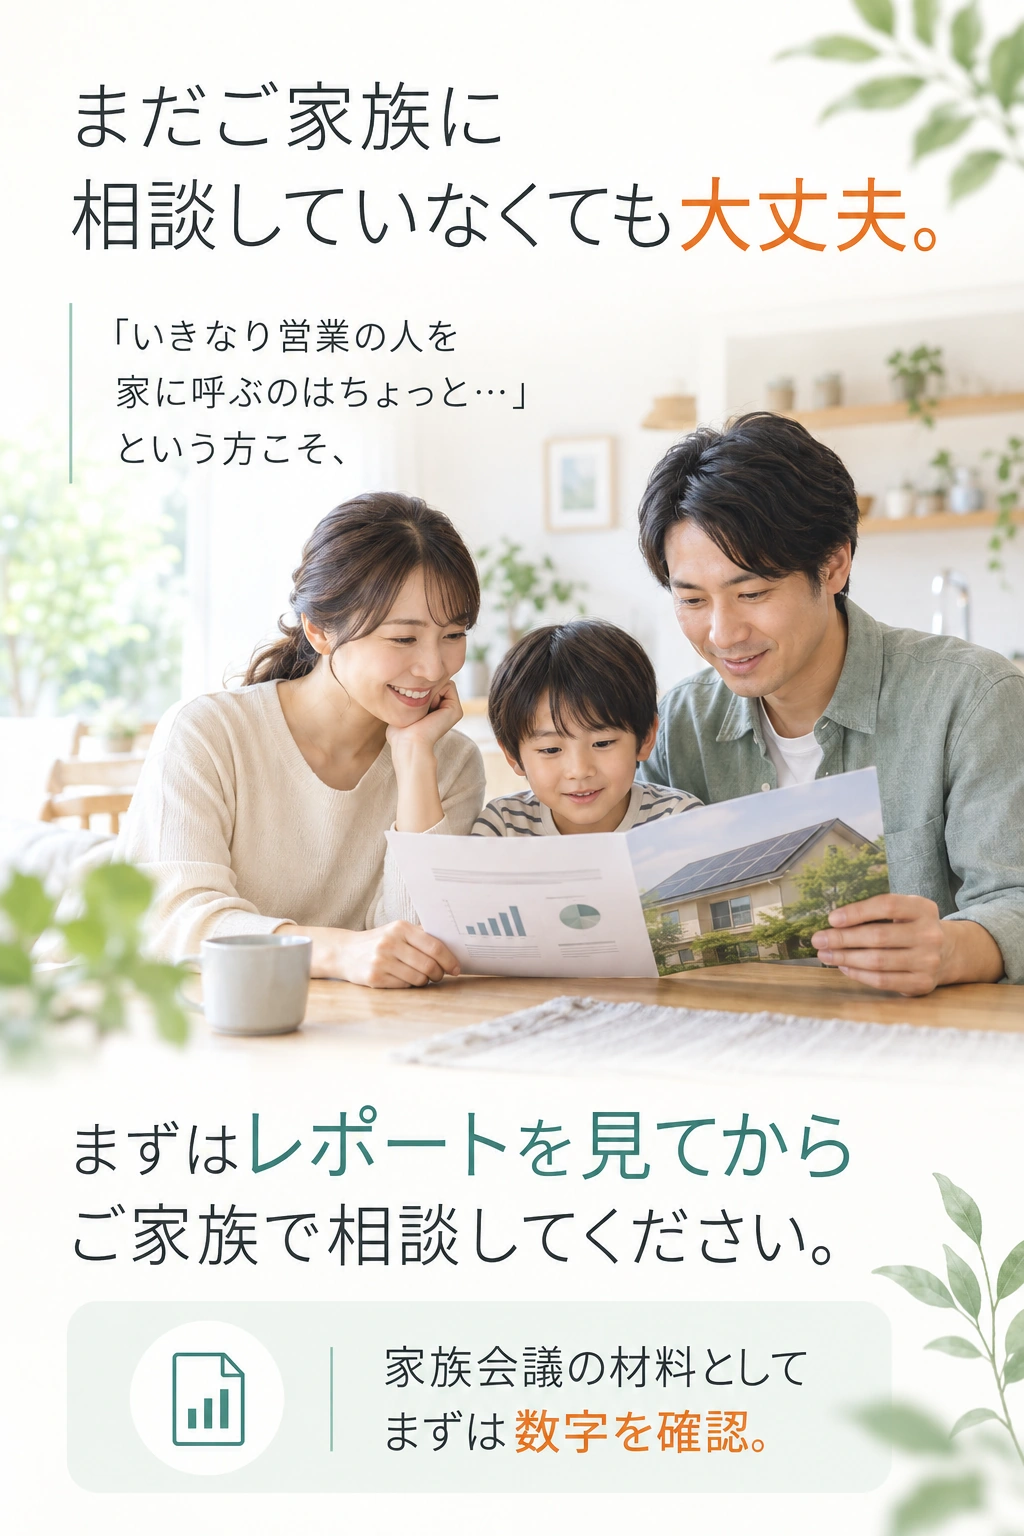
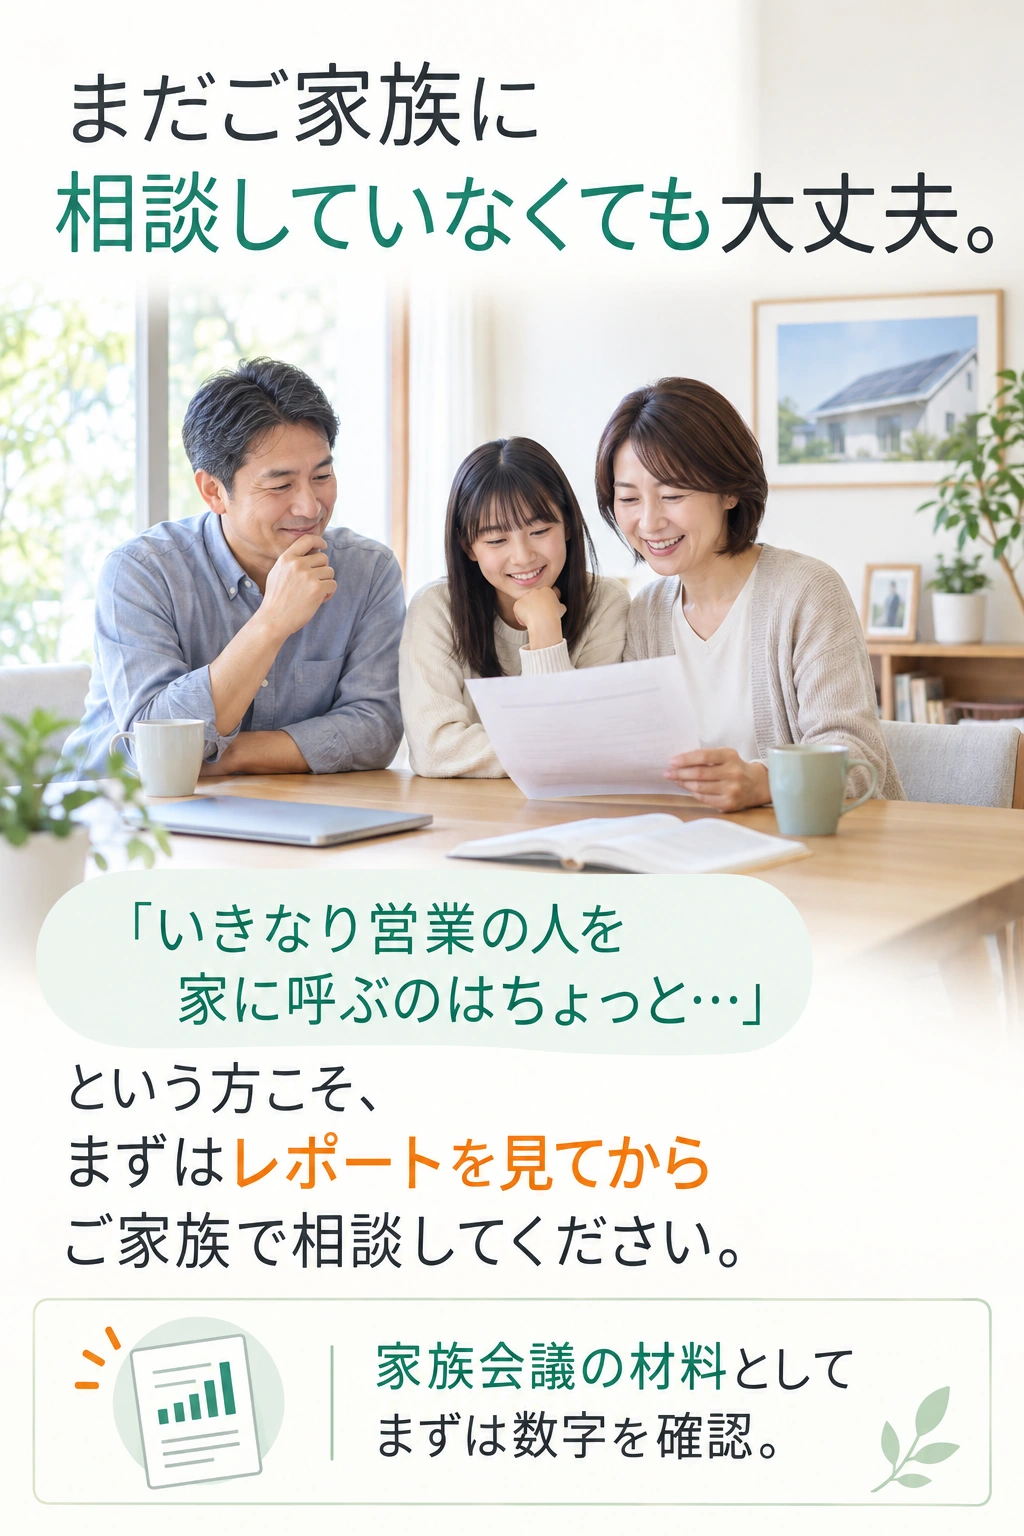
Improve ECODA draftB mobile text readability

diff --git a/projects/20260928_ecoda/draftB/index.html b/projects/20260928_ecoda/draftB/index.html
@@ -2,7 +2,7 @@
 
 <html lang="ja"><head><meta charset="utf-8"/><meta content="width=device-width,initial-scale=1" name="viewport"/><title>東京の戸建て向け｜AI補助金レポートのご案内</title><meta content="太陽光・蓄電池の補助金を知りたい東京都の戸建てにお住まいの方へ。家族で考えるための無料レポートをご紹介します。" name="description"/><meta content="noindex,nofollow,noarchive" name="robots"/><link href="styles.css?v=flow-arrows-r2" rel="stylesheet"/><script defer="" src="app.js?v=flow-arrows-r2"></script><style>.real-report-example{margin:0;padding:18px 16px 24px;background:#eef5f1}.real-report-example figcaption{text-align:center;font-size:19px;font-weight:800;color:#095d46;margin:0 0 12px}.real-report-example img{display:block;width:100%;height:auto;box-shadow:0 5px 18px #12362620}.real-report-example a{display:block}</style><style>.preparedness-crop{aspect-ratio:auto;overflow:visible}.real-report-example figcaption{font-size:17px;font-weight:500}.survey-arrows{height:94px;padding:22px 0;gap:12px}.survey-arrows svg{flex-basis:38px;width:38px;height:48px;filter:none}</style></head><body><a class="skip" href="#main">本文へ進む</a><main class="lp" id="main">
 <section aria-label="自宅の補助金を無料レポートで確認" id="fv"><img alt="PR 東京都の戸建てにお住まいの方へ 太陽光・蓄電池 あなたの家なら 補助金いくら？ 大雨・台風・突然の停電。 いざという時の備えも、 まずは自宅で確認。 AI補助金レポート 無料 いきなり現地見積もりではなく、 まずはWEBで確認できます。" decoding="async" fetchpriority="high" height="1536" src="assets/01-fv.webp" width="1024"/></section>
-<section aria-label="4問の簡易診断" id="diagnosis"><img alt="4問の簡単アンケート 簡単アンケートにご回答いただいた対象の方に無料であなたの家の補助金レポートを差し上げます" decoding="async" height="1024" id="survey-intro" loading="eager" src="assets/14-survey-intro-gold.webp" width="1536"/><figure class="real-report-example" id="report-example"><figcaption>レポートの一例</figcaption><a aria-label="レポートの一例を拡大して見る" href="assets/report-example.png" rel="noopener" target="_blank"><img alt="提供された個別AI補助金シミュレーションのレポート見本。個人情報は黒塗り。住宅条件による一例。" height="565" loading="lazy" src="assets/report-example.png" width="528"/></a></figure><div aria-hidden="true" class="survey-arrows"><svg viewbox="0 0 64 76"><path d="M19 4h26v35h15L32 72 4 39h15z"></path></svg><svg viewbox="0 0 64 76"><path d="M19 4h26v35h15L32 72 4 39h15z"></path></svg><svg viewbox="0 0 64 76"><path d="M19 4h26v35h15L32 72 4 39h15z"></path></svg></div><p class="sr-only">当てはまるものを1つずつ選んでください。この簡易診断では補助金額や対象条件の判定は行いません。</p><div id="quiz"><div aria-live="polite" class="sr-only" id="quiz-progress" role="status"></div><div class="question-panel"><img alt="" decoding="async" height="1024" id="question-image" loading="lazy" src="assets/03-q1.webp" width="1024"/><h2 class="sr-only" id="question-title" tabindex="-1">今のお住まいは？</h2><div aria-labelledby="question-title" id="answers" role="group"></div></div><button aria-label="前の質問に戻る" class="utility-button" hidden="" id="previous" type="button"><svg aria-hidden="true" viewbox="0 0 32 32"><path d="M20 7L11 16l9 9"></path></svg></button></div><noscript><p class="noscript">簡易診断にはJavaScriptが必要です。ページ下部から無料レポートを確認できます。</p></noscript></section>
+<section aria-label="4問の簡易診断" id="diagnosis"><img alt="4問の簡単アンケート 簡単アンケートにご回答いただいた対象の方に無料であなたの家の補助金レポートを差し上げます" decoding="async" height="1536" id="survey-intro" loading="eager" src="assets/14-survey-intro-gold.webp" width="1024"/><figure class="real-report-example" id="report-example"><figcaption>レポートの一例</figcaption><a aria-label="レポートの一例を拡大して見る" href="assets/report-example.png" rel="noopener" target="_blank"><img alt="提供された個別AI補助金シミュレーションのレポート見本。個人情報は黒塗り。住宅条件による一例。" height="565" loading="lazy" src="assets/report-example.png" width="528"/></a></figure><div aria-hidden="true" class="survey-arrows"><svg viewbox="0 0 64 76"><path d="M19 4h26v35h15L32 72 4 39h15z"></path></svg><svg viewbox="0 0 64 76"><path d="M19 4h26v35h15L32 72 4 39h15z"></path></svg><svg viewbox="0 0 64 76"><path d="M19 4h26v35h15L32 72 4 39h15z"></path></svg></div><p class="sr-only">当てはまるものを1つずつ選んでください。この簡易診断では補助金額や対象条件の判定は行いません。</p><div id="quiz"><div aria-live="polite" class="sr-only" id="quiz-progress" role="status"></div><div class="question-panel"><img alt="" decoding="async" height="1024" id="question-image" loading="lazy" src="assets/03-q1.webp" width="1024"/><h2 class="sr-only" id="question-title" tabindex="-1">今のお住まいは？</h2><div aria-labelledby="question-title" id="answers" role="group"></div></div><button aria-label="前の質問に戻る" class="utility-button" hidden="" id="previous" type="button"><svg aria-hidden="true" viewbox="0 0 32 32"><path d="M20 7L11 16l9 9"></path></svg></button></div><noscript><p class="noscript">簡易診断にはJavaScriptが必要です。ページ下部から無料レポートを確認できます。</p></noscript></section>
 <section aria-label="診断完了" hidden="" id="result"><h2 class="sr-only" id="result-focus" tabindex="-1">診断完了！</h2><img alt="診断完了！ あとは、 あなたの家なら どのくらい補助金が使えそうか 確認するだけ。" decoding="async" height="1024" loading="lazy" src="assets/07-result.webp" width="1024"/><a aria-label="無料でレポートを確認する" class="image-cta" data-cta="middle" href="https://lp.house-energy.jp/lp15_campaign_3/"><img alt="無料でレポートを確認する" decoding="async" height="724" loading="lazy" src="assets/13-cta.webp" width="2172"/></a></section>
 <section aria-label="こんなことが気になっていませんか"><img alt="こんなこと、 気になっていませんか？ 補助金はいくら出る？ 結局いくら払う？ 電気代は安くなる？ 停電した時、本当に使える？ まだ家族に相談していない" decoding="async" height="1024" loading="lazy" src="assets/02-empathy.webp" width="1024"/><div aria-hidden="true" class="survey-arrows" id="after-empathy"><svg viewbox="0 0 64 76"><path d="M19 4h26v35h15L32 72 4 39h15z"></path></svg><svg viewbox="0 0 64 76"><path d="M19 4h26v35h15L32 72 4 39h15z"></path></svg><svg viewbox="0 0 64 76"><path d="M19 4h26v35h15L32 72 4 39h15z"></path></svg></div></section>
 <section aria-label="レポートで分かること"><img alt="AI補助金レポートで こんなことが分かります 1. 使える可能性のある補助金 2. 自己負担額の目安 3. 電気代削減の目安 4. 停電への備え" decoding="async" height="1024" loading="lazy" src="assets/08-report.webp" width="1024"/></section>

diff --git a/projects/20260928_ecoda/draftB/app.js b/projects/20260928_ecoda/draftB/app.js
@@ -1,5 +1,5 @@
 'use strict';
-const questions = [{"title": "今のお住まいは？", "options": ["東京都の戸建て持ち家", "戸建てだが家族名義", "その他"], "image": "03-q1.webp", "hotspots": [{"x": 0.042, "y": 0.523, "w": 0.914, "h": 0.128}, {"x": 0.042, "y": 0.671, "w": 0.914, "h": 0.128}, {"x": 0.042, "y": 0.815, "w": 0.914, "h": 0.128}]}, {"title": "太陽光・蓄電池が気になったきっかけは？", "options": ["最近、電気代が高い", "大雨、台風、停電が心配", "補助金があると知った", "周りで設置する家が増えた"], "image": "04-q2.webp", "hotspots": [{"x": 0.042, "y": 0.403, "w": 0.914, "h": 0.129}, {"x": 0.042, "y": 0.55, "w": 0.914, "h": 0.129}, {"x": 0.042, "y": 0.697, "w": 0.914, "h": 0.129}, {"x": 0.042, "y": 0.843, "w": 0.914, "h": 0.129}]}, {"title": "まず一番知りたいことは？", "options": ["我が家はいくら補助金が出る？", "実際の自己負担はいくら？", "電気代はいくら安くなる？", "停電時にどこまで使える？"], "image": "05-q3-photo-v3.webp", "hotspots": [{"x": 0.042, "y": 0.4, "w": 0.914, "h": 0.133}, {"x": 0.042, "y": 0.549, "w": 0.914, "h": 0.133}, {"x": 0.042, "y": 0.697, "w": 0.914, "h": 0.133}, {"x": 0.042, "y": 0.843, "w": 0.914, "h": 0.133}]}, {"title": "今の検討状況は？", "options": ["家族と相談するために情報を集めたい", "条件が良ければ検討したい", "具体的に検討している", "まだ何も決めていない"], "image": "06-q4-photo-v3.webp", "hotspots": [{"x": 0.042, "y": 0.397, "w": 0.914, "h": 0.126}, {"x": 0.042, "y": 0.54, "w": 0.914, "h": 0.13}, {"x": 0.042, "y": 0.684, "w": 0.914, "h": 0.13}, {"x": 0.042, "y": 0.827, "w": 0.914, "h": 0.13}]}];
+const questions = [{"title": "今のお住まいは？", "options": ["東京都の戸建て持ち家", "戸建てだが家族名義", "その他"], "image": "03-q1.webp", "hotspots": [{"x": 0.033, "y": 0.488, "w": 0.936, "h": 0.153}, {"x": 0.033, "y": 0.659, "w": 0.936, "h": 0.153}, {"x": 0.033, "y": 0.829, "w": 0.936, "h": 0.15}]}, {"title": "太陽光・蓄電池が気になったきっかけは？", "options": ["最近、電気代が高い", "大雨、台風、停電が心配", "補助金があると知った", "周りで設置する家が増えた"], "image": "04-q2.webp", "hotspots": [{"x": 0.033, "y": 0.413, "w": 0.936, "h": 0.125}, {"x": 0.033, "y": 0.55, "w": 0.936, "h": 0.132}, {"x": 0.033, "y": 0.695, "w": 0.936, "h": 0.132}, {"x": 0.033, "y": 0.843, "w": 0.936, "h": 0.132}]}, {"title": "まず一番知りたいことは？", "options": ["我が家はいくら補助金が出る？", "実際の自己負担はいくら？", "電気代はいくら安くなる？", "停電時にどこまで使える？"], "image": "05-q3-photo-v3.webp", "hotspots": [{"x": 0.033, "y": 0.39, "w": 0.936, "h": 0.136}, {"x": 0.033, "y": 0.537, "w": 0.936, "h": 0.136}, {"x": 0.033, "y": 0.686, "w": 0.936, "h": 0.136}, {"x": 0.033, "y": 0.836, "w": 0.936, "h": 0.136}]}, {"title": "今の検討状況は？", "options": ["家族と相談するために情報を集めたい", "条件が良ければ検討したい", "具体的に検討している", "まだ何も決めていない"], "image": "06-q4-photo-v3.webp", "hotspots": [{"x": 0.033, "y": 0.397, "w": 0.936, "h": 0.168}, {"x": 0.033, "y": 0.583, "w": 0.936, "h": 0.124}, {"x": 0.033, "y": 0.72, "w": 0.936, "h": 0.124}, {"x": 0.033, "y": 0.86, "w": 0.936, "h": 0.122}]}];
 const formUrl = 'https://lp.house-energy.jp/lp15_campaign_3/';
 document.addEventListener('click', event => {
   const link = event.target.closest('a[data-cta]');
